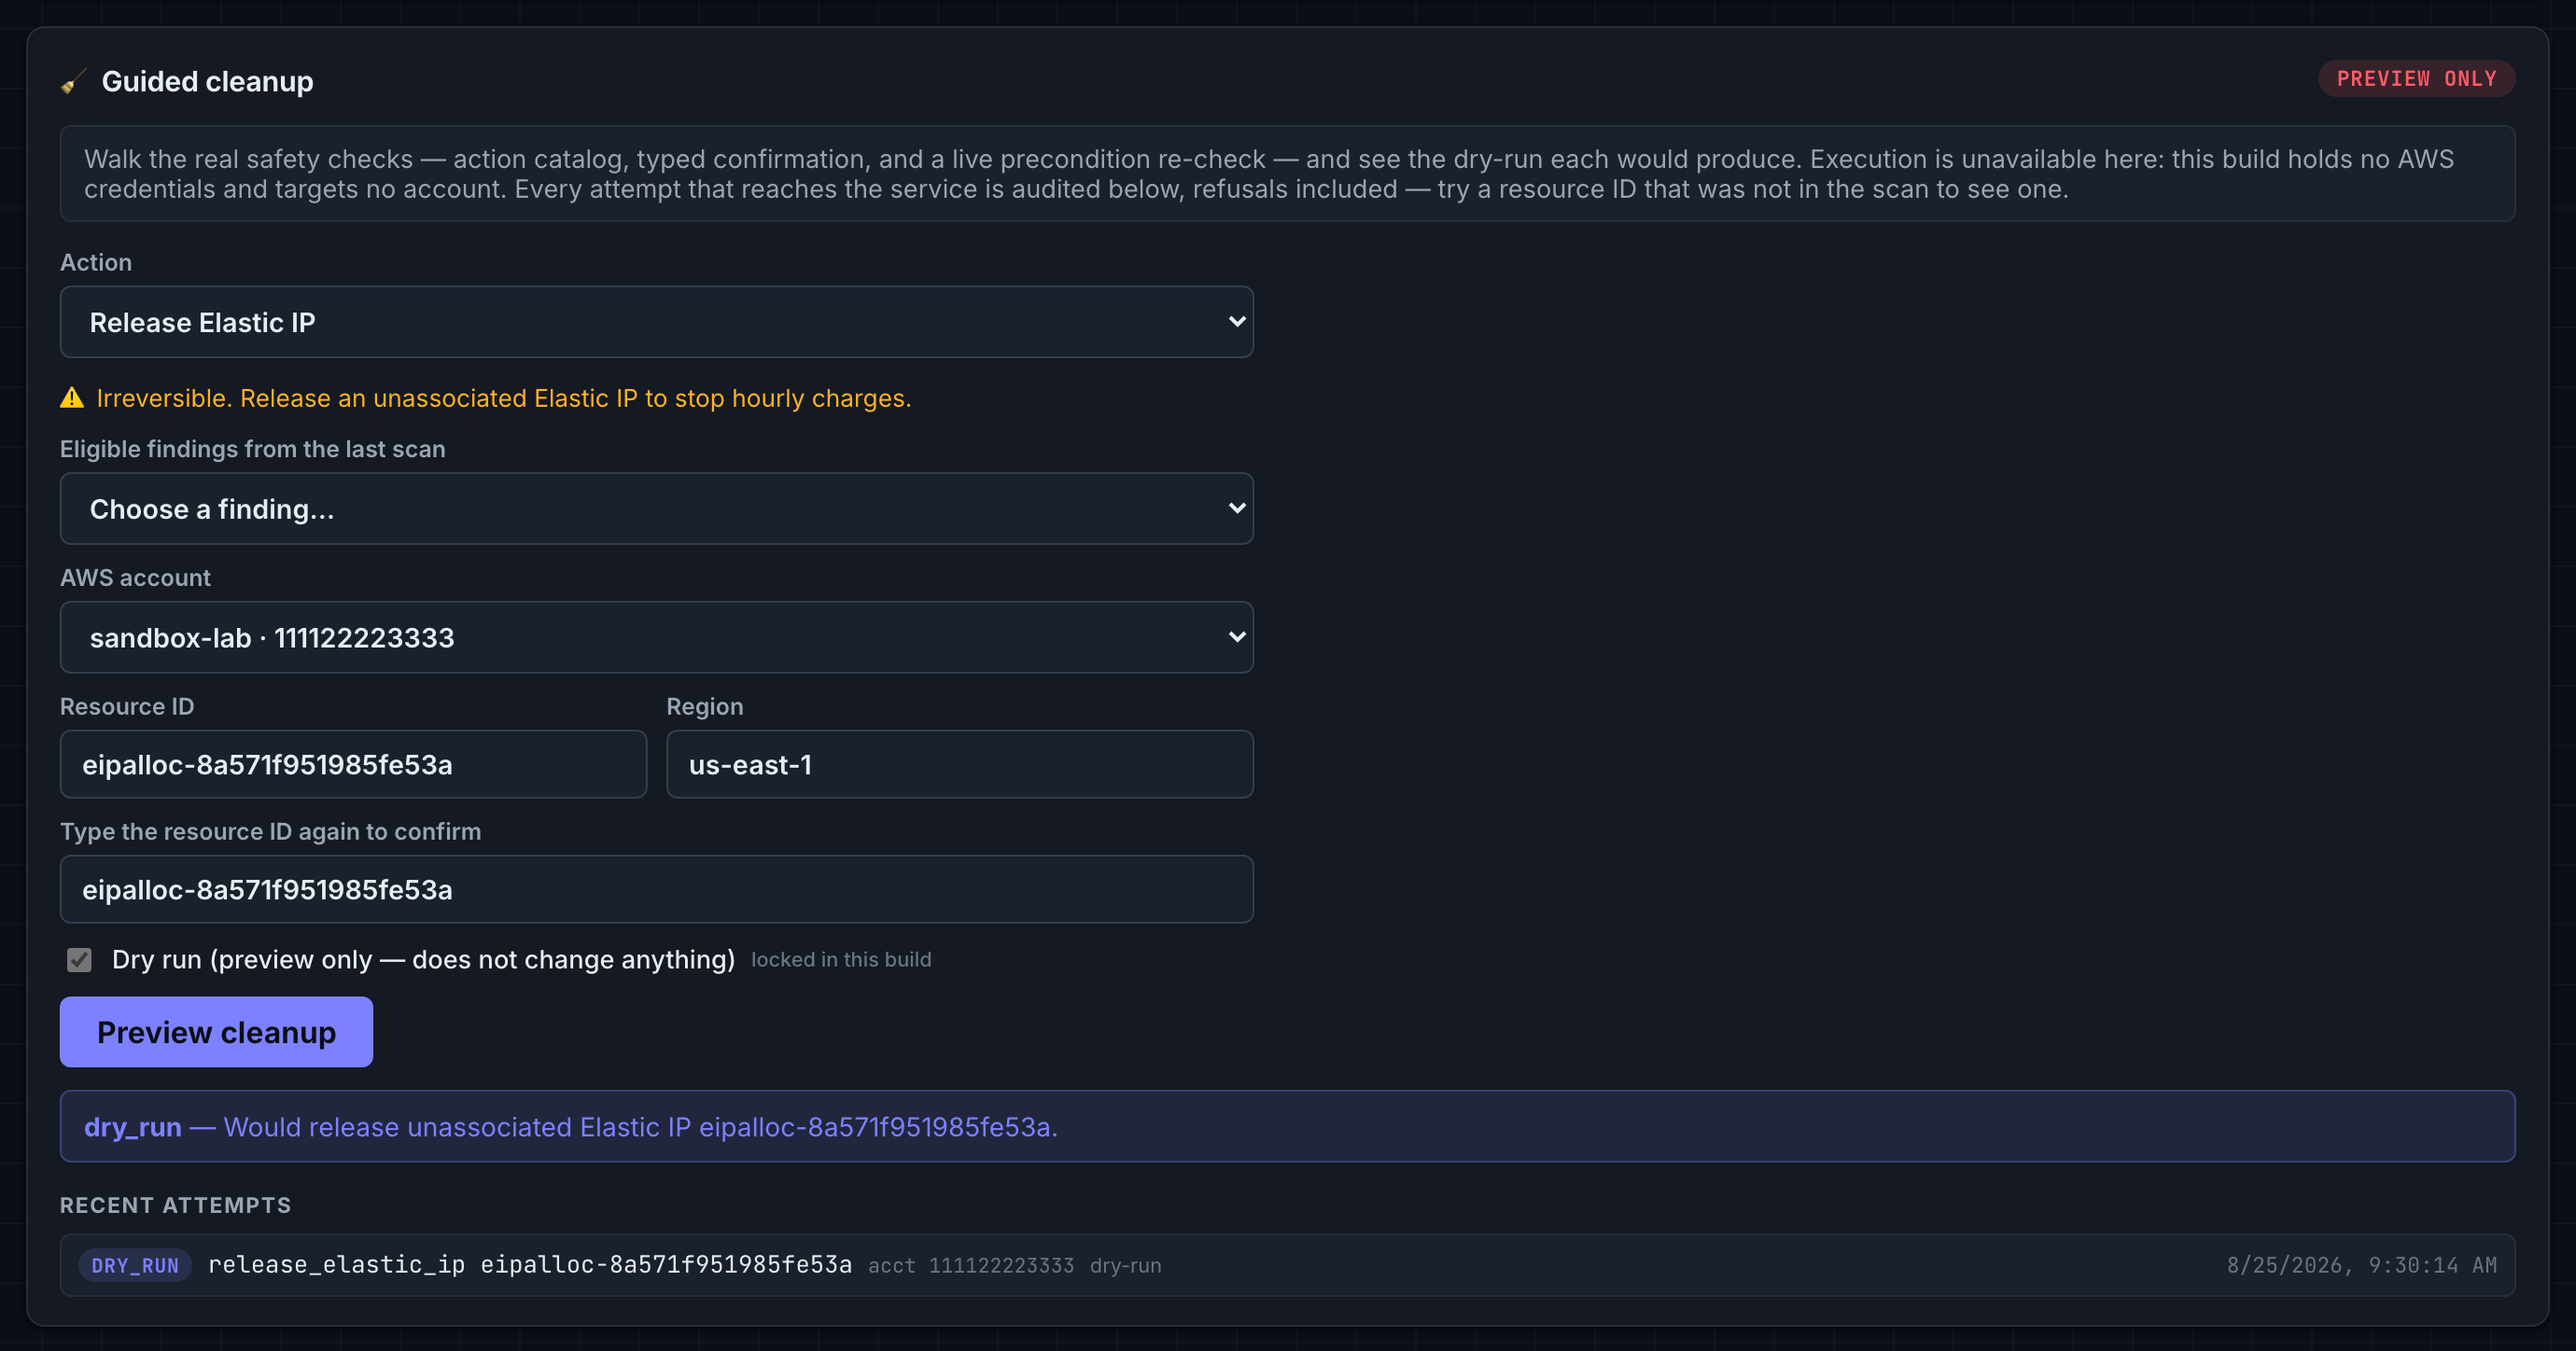
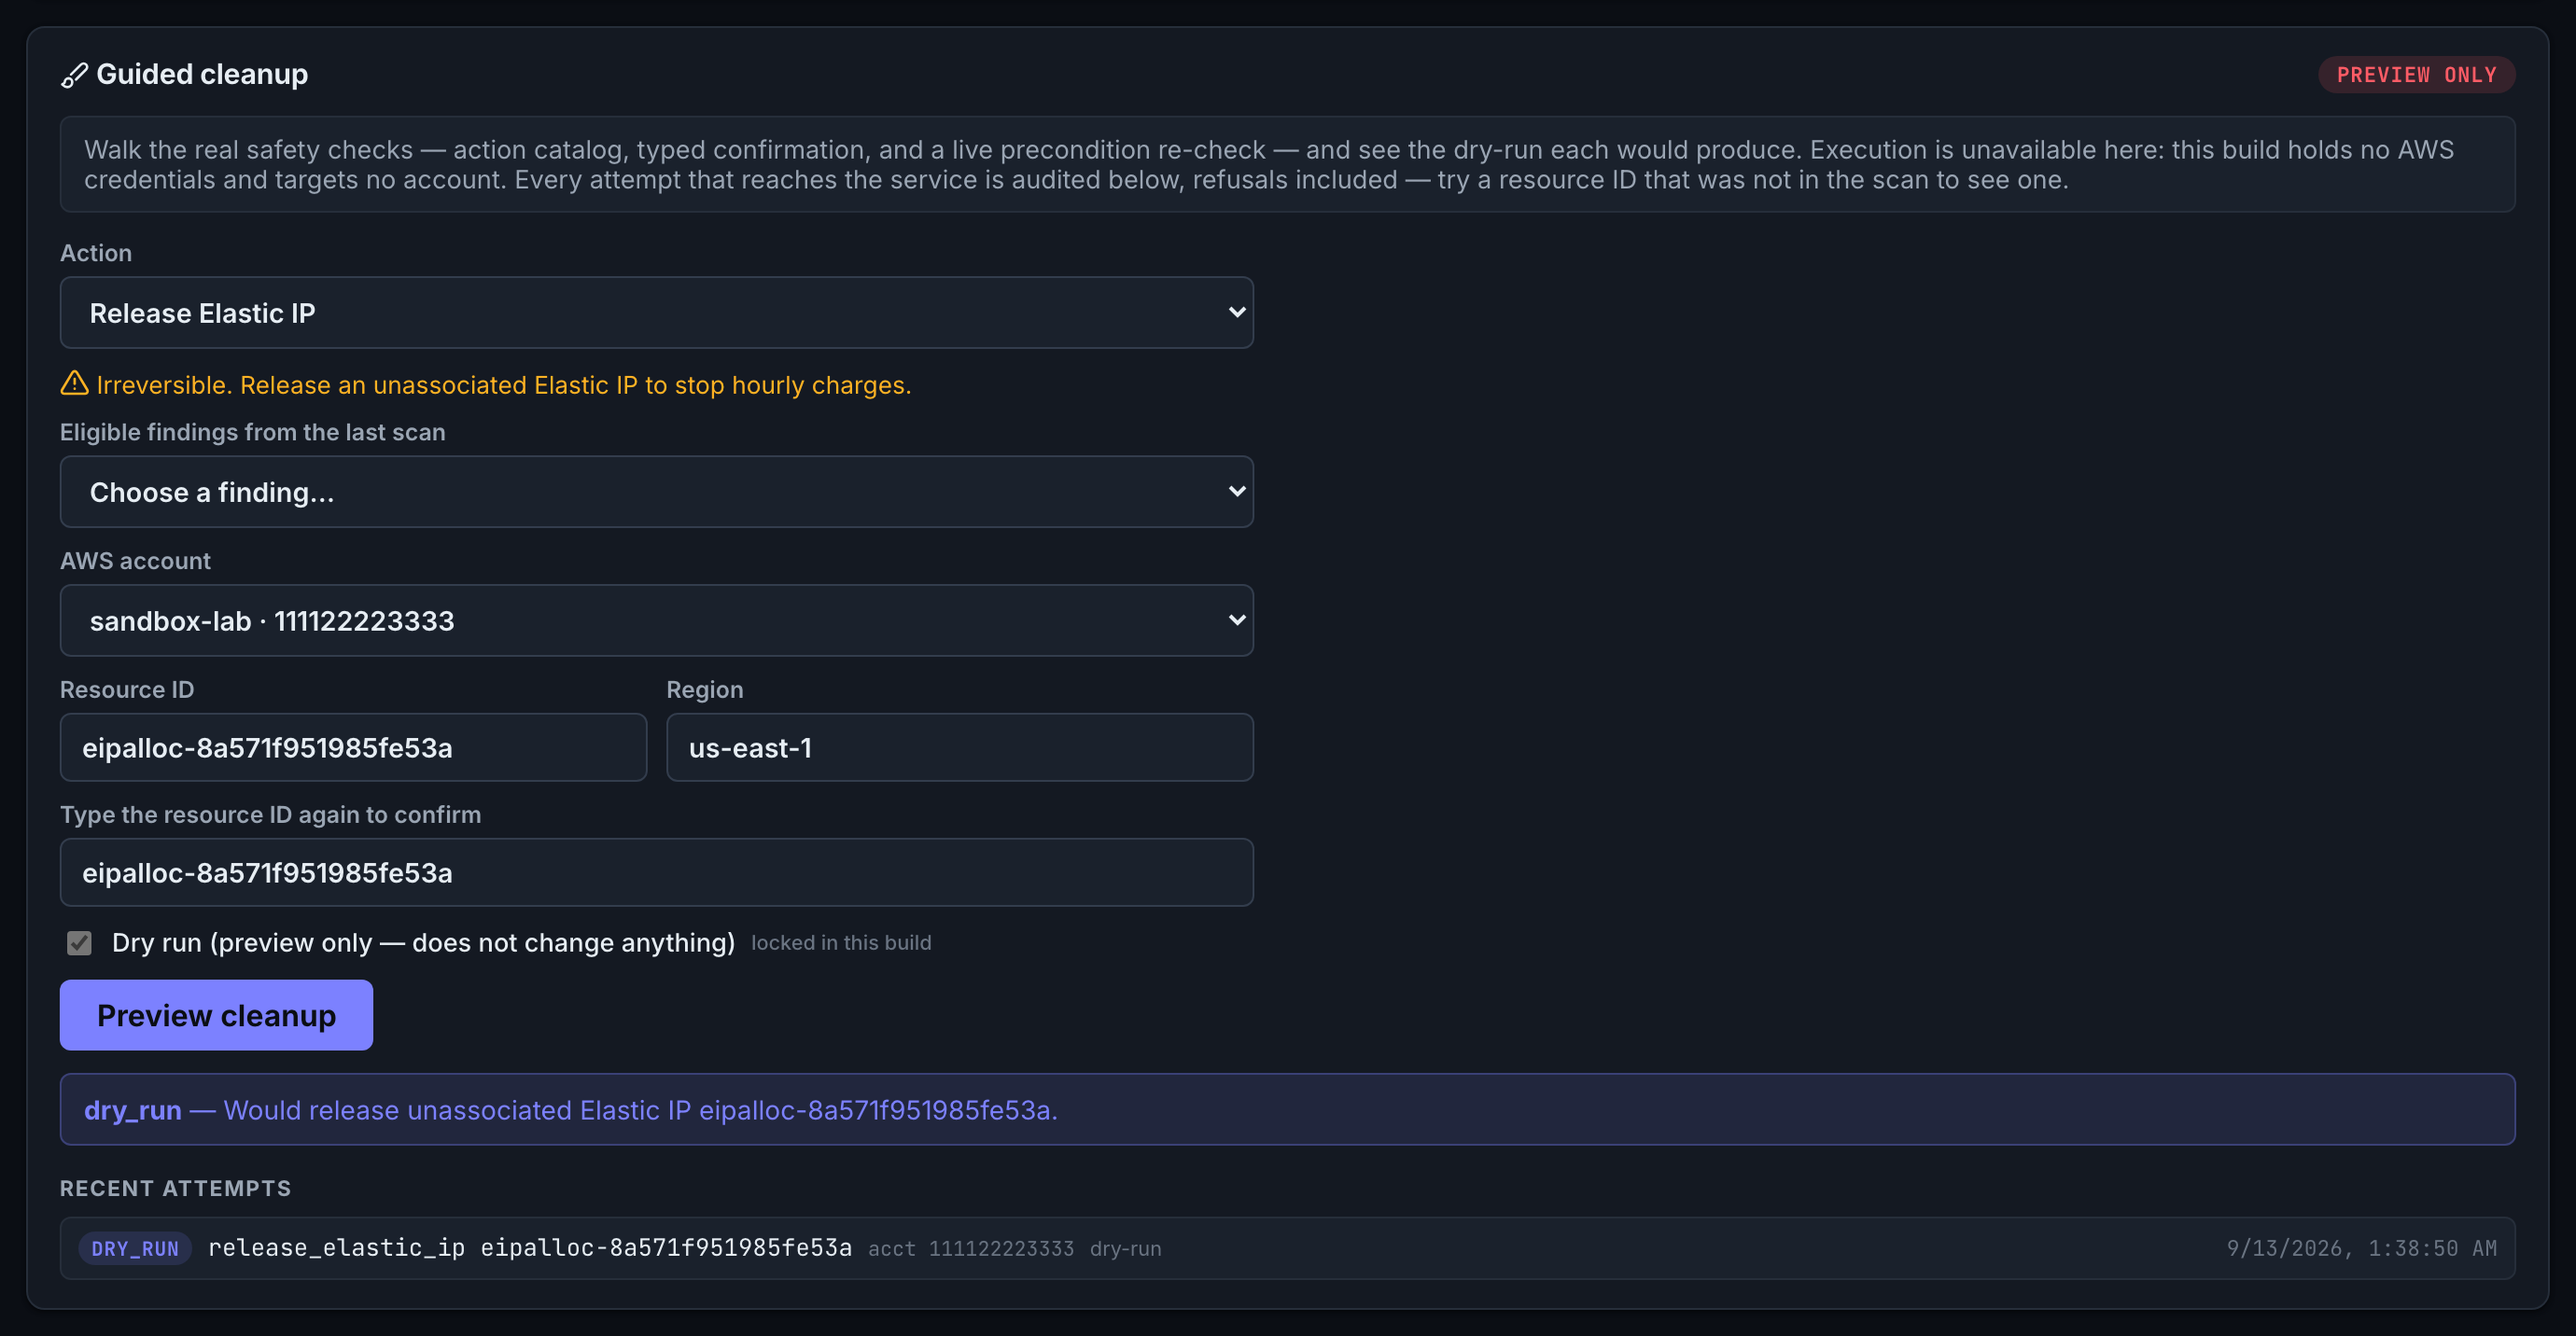
Recapture the screenshots against the restructured dashboard
All three images still showed the dashboard from before this branch: the
findings as two prose columns, the graph-paper background, and emoji where the
interface now draws its own icons.

dashboard.png is the full page at the recipe's 1860 CSS px and DPR 2, now 2793px
tall rather than 3667 because the findings are master/detail. It shows the risk
filter and the sort in force, the detail panel for the selected finding, and the
Min. $/mo tile's "+$31.50 vs Aug 14 scan".

history-diff.png and cleanup-preview.png keep their framing — the same panel
with 14px of page around it, at the same widths — and their contents: the diff
between the two demo scans, and a dry-run preview of release_elastic_ip on the
same Elastic IP. What moved is the background behind them and, in the cleanup
panel, the icons; the attempt row carries the date it was captured.

Those two crops had no written recipe, so their viewports were measured from the
images they replace: the diff panel at 1860px, the cleanup panel at 1400px.
CLAUDE.md now records both, and that the capture has to wait for the scan
history as well as the scan, or the tile is taken without its change.

test_screenshot_claims.py pins the tile's figures against the fixtures: both
demo scans complete, the earlier one at $91.80, dated Aug 14 in the capture's
timezone. docs/img/README.md describes what each image now shows, including
that history-diff.png shows the diff alone, not the sidebar the manifest named.

288 backend tests, lint clean.

diff --git a/backend/tests/test_screenshot_claims.py b/backend/tests/test_screenshot_claims.py
@@ -21,6 +21,8 @@ from __future__ import annotations
 
 import json
 import re
+from datetime import datetime
+from zoneinfo import ZoneInfo
 
 from tests.conftest import REPO_ROOT
 
@@ -132,6 +134,15 @@ def test_screenshot_figures_match_the_demo_fixtures():
     assert scan["summary"]["total_resources"] == 15
     assert scan["summary"]["by_risk_level"] == {"HIGH": 3, "REVIEW": 2, "MEDIUM": 4, "LOW": 6}
     assert scan["summary"]["estimated_monthly_cost"] == 123.30
+
+    # dashboard.png's Min. $/mo tile: "+$31.50 vs Aug 14 scan". The tile compares
+    # only two complete scans (D21), and names the earlier one by its date in the
+    # capture recipe's America/New_York timezone.
+    assert scan["complete"] is True and previous["complete"] is True
+    assert previous["summary"]["estimated_monthly_cost"] == 91.80
+    earlier = datetime.fromisoformat(previous["created_at"].replace("Z", "+00:00"))
+    earlier = earlier.astimezone(ZoneInfo("America/New_York"))
+    assert f"{earlier:%b} {earlier.day}" == "Aug 14"
 
     # The 4-tuple identity the alert/diff engine uses (CLAUDE.md § Gotchas).
     def identity(resource):

diff --git a/CLAUDE.md b/CLAUDE.md
@@ -215,9 +215,13 @@ repository. Persistence is optional: no
   first paint rather than inheriting the OS appearance, hide scrollbars, and
   blur the active element so no focus ring lands in frame. The demo **starts
   its scan on load** — wait for `.summary__caveat` to exist and for no button
-  to read "Scanning…", not for a click. The other two images are element crops
-  at two *different* widths, so there is no single viewport that reproduces all
-  three: recapture only the image whose inputs moved.
+  to read "Scanning…", not for a click — and for the scan history too, or the
+  Min. $/mo tile is captured without its change since the last scan. The other
+  two images are crops of a single panel with 14px of page around it, each at its
+  own viewport: `history-diff.png` is the diff panel after Compare at 1860px, and
+  `cleanup-preview.png` the cleanup panel at 1400px after a dry-run preview of
+  `release_elastic_ip` on `eipalloc-8a571f951985fe53a`. No single viewport
+  reproduces all three, so recapture only the image whose inputs moved.
   `backend/tests/test_screenshot_claims.py` lists what each one depends on.
 - **A new scan-table column can silently clip the last one.** `.page`'s
   max-width is sized to fit the table beside the history sidebar; re-measure

diff --git a/docs/img/README.md b/docs/img/README.md
@@ -6,8 +6,8 @@ of them.
 
 | File | What it shows | Referenced from | Claims checked by |
 | --- | --- | --- | --- |
-| `dashboard.png` | A scan result: cost total, risk badges, alerts panel | root `README.md` — hero image and Screenshots | `test_screenshot_claims.py` (cost caveat, summary figures) |
-| `history-diff.png` | The scan-history sidebar and the diff between two scans | root `README.md` — Screenshots | `test_screenshot_claims.py` (diff counts, resource IDs) |
+| `dashboard.png` | A scan result: alerts, the cost total and its change since the last scan, the findings with their risk filter and detail panel, scan history | root `README.md` — hero image and Screenshots | `test_screenshot_claims.py` (cost caveat, summary figures, the change since the last scan) |
+| `history-diff.png` | The diff between two saved scans | root `README.md` — Screenshots | `test_screenshot_claims.py` (diff counts, resource IDs) |
 | `cleanup-preview.png` | The guided cleanup panel mid dry-run | root `README.md` — Screenshots | `test_screenshot_claims.py` (panel prose, action catalog, EIP id) |
 
 Those tests flag the source and fixture changes that make an image *suspect*;
